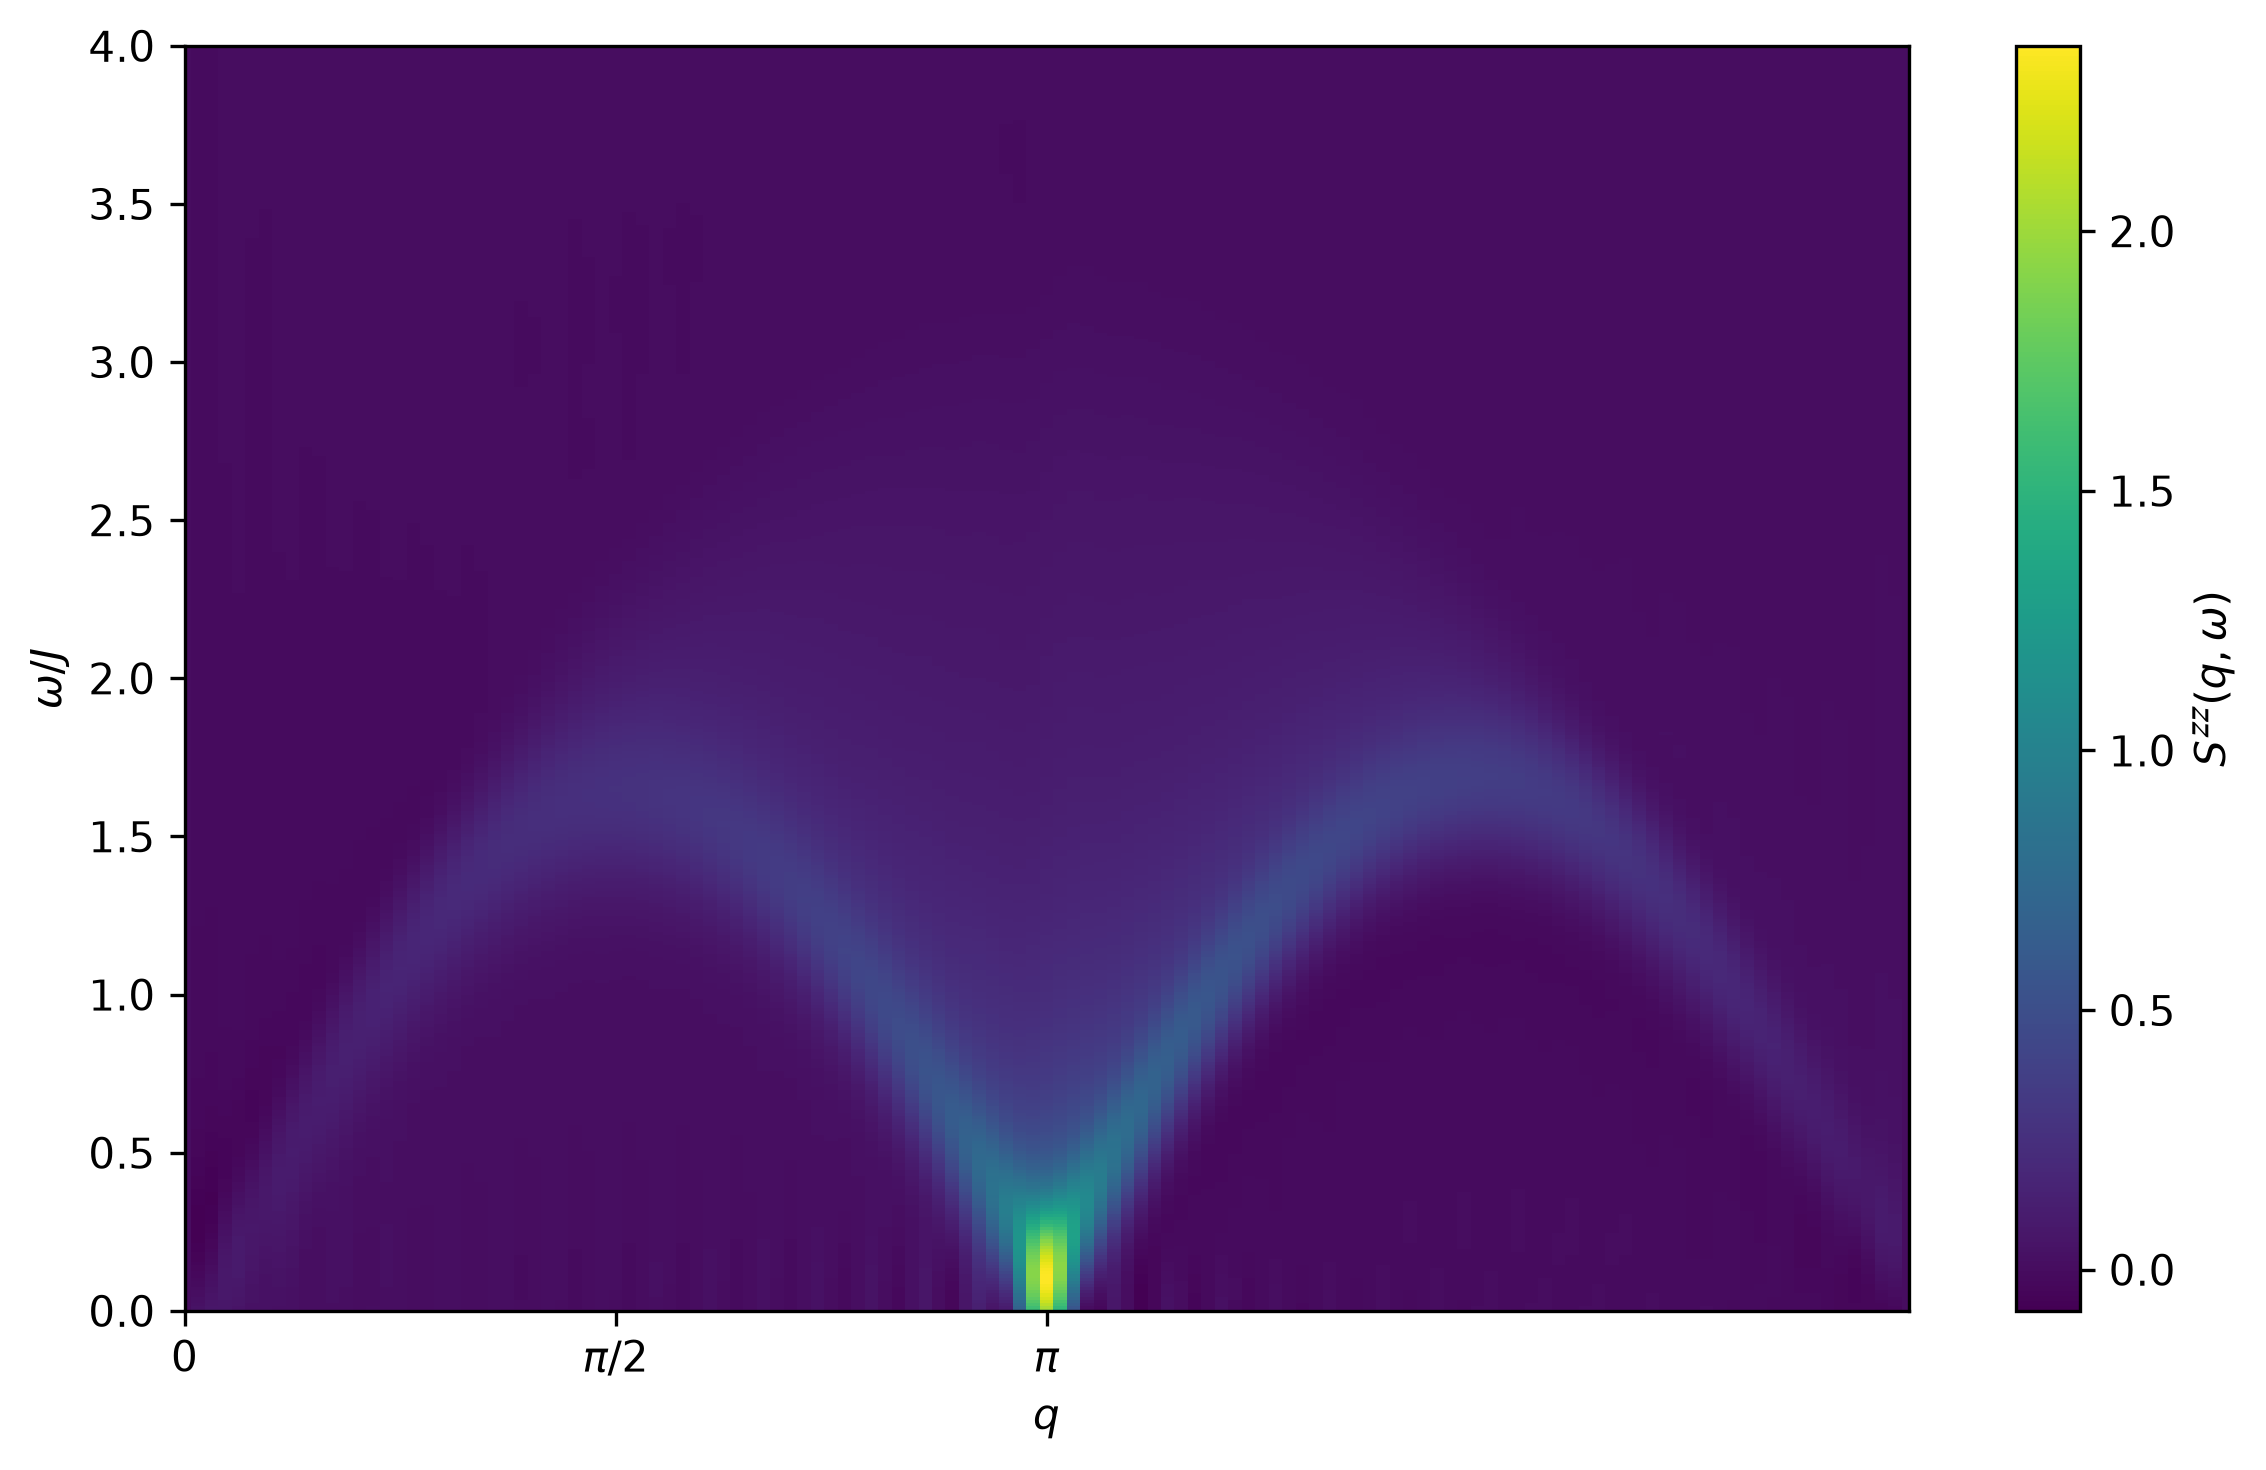
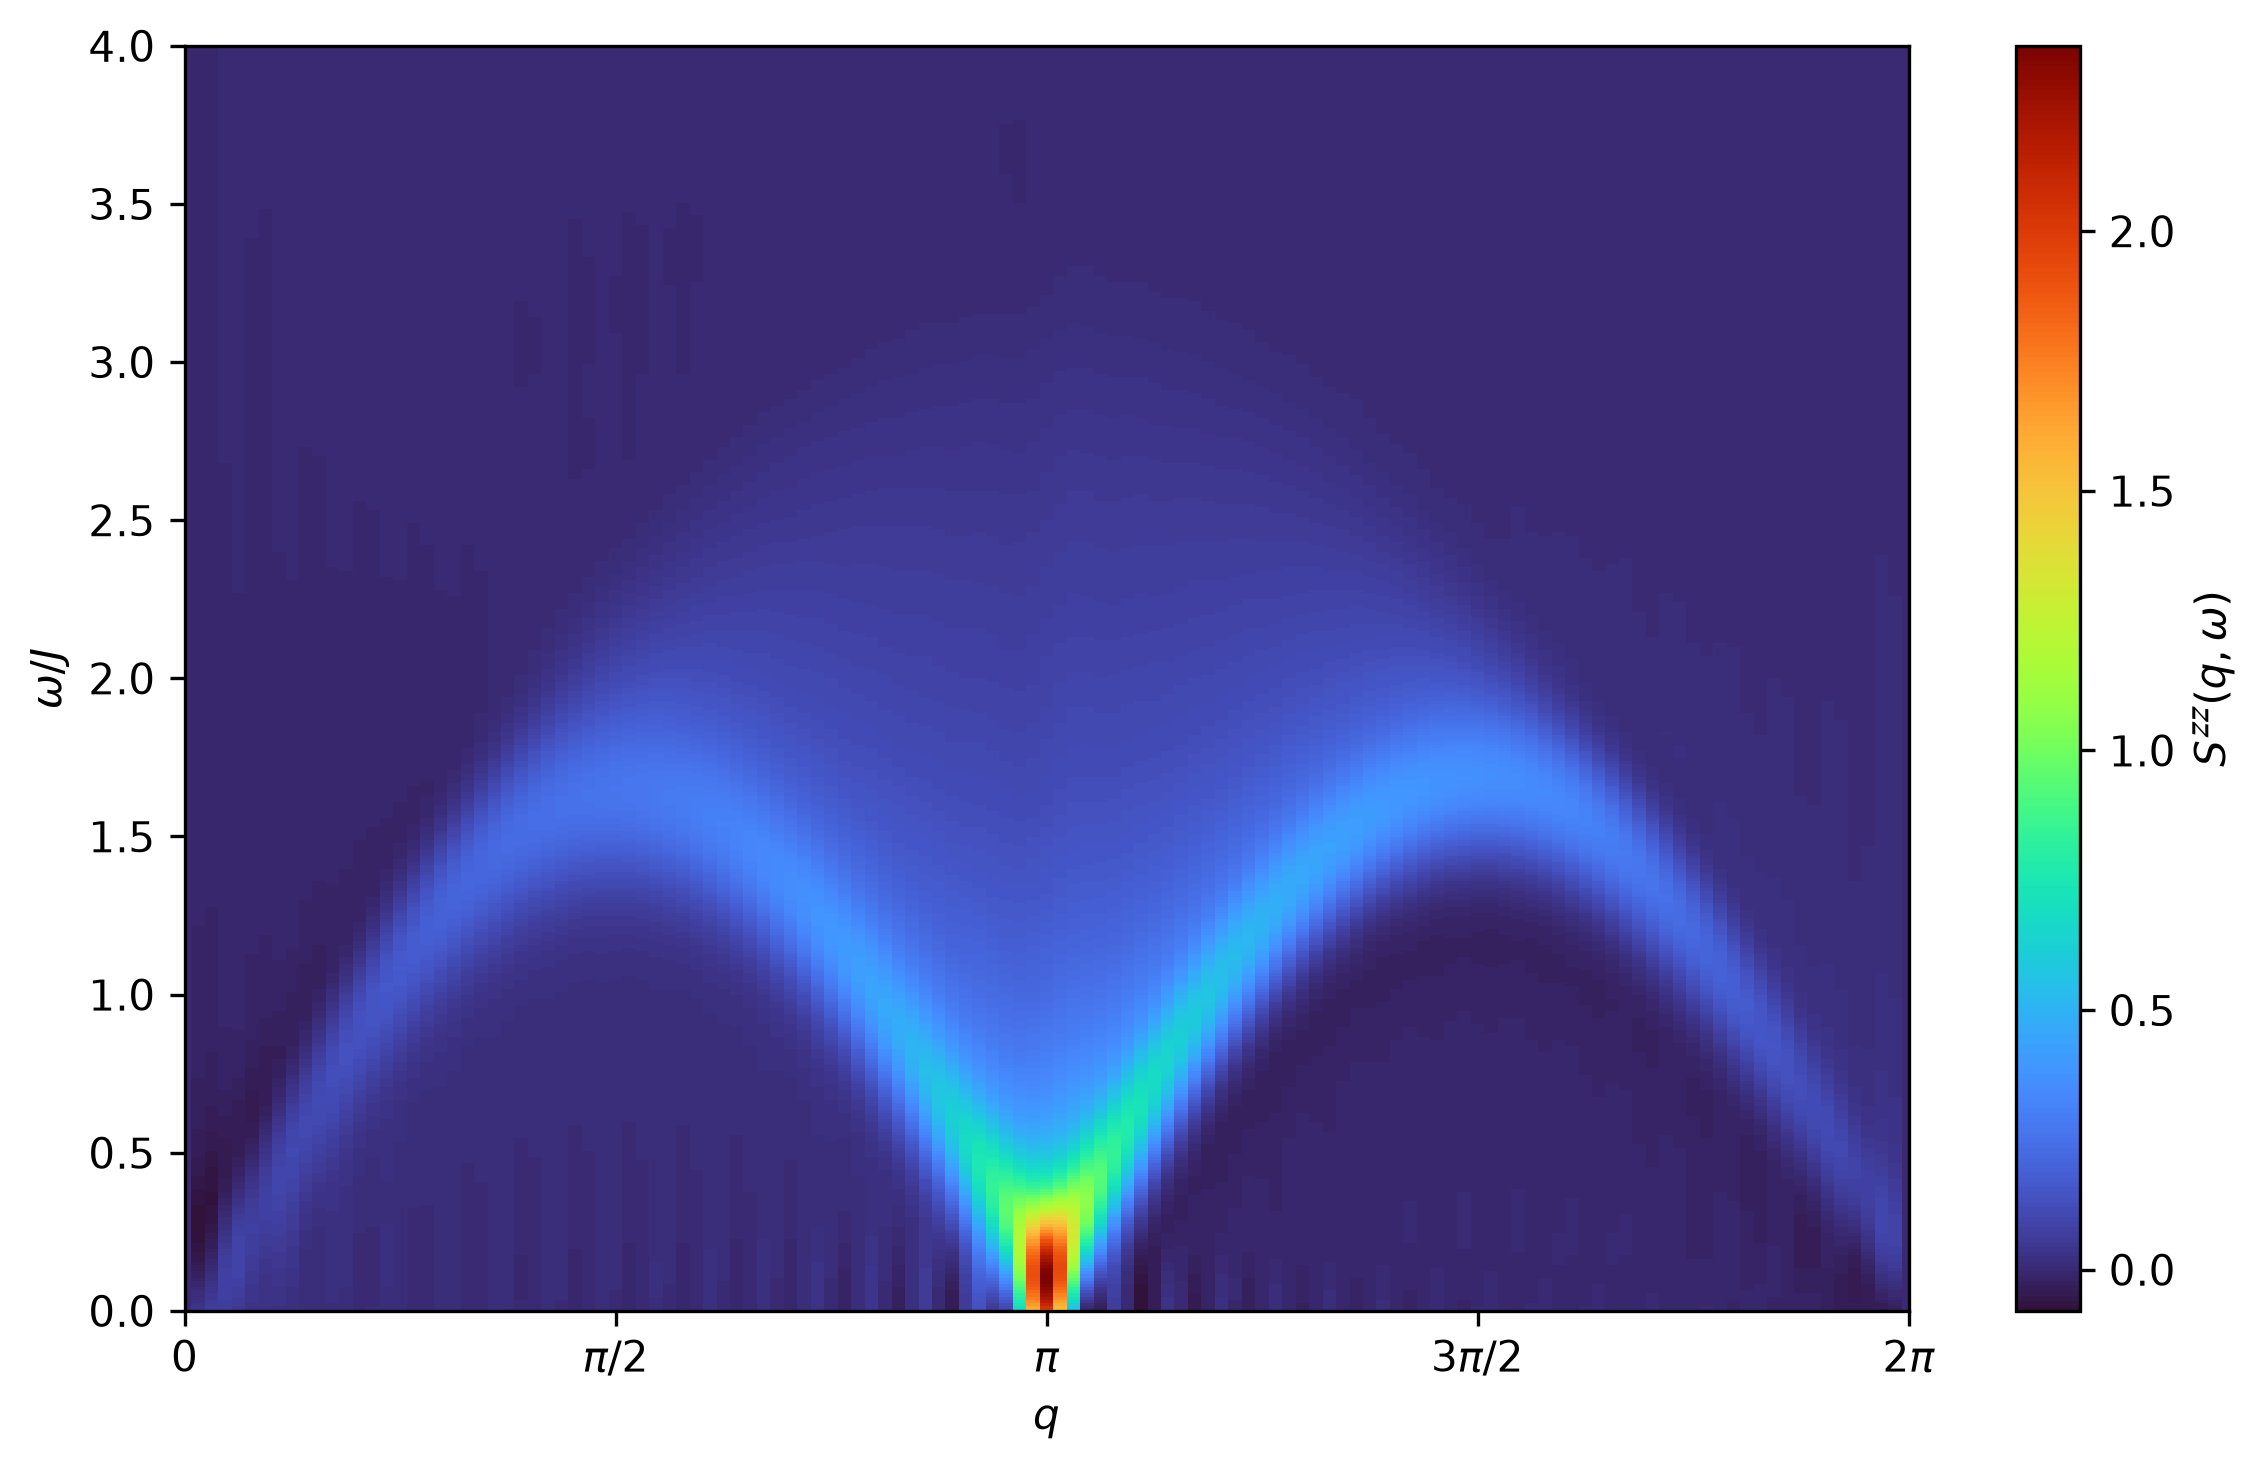
change colormap

diff --git a/sqw_tebd.py b/sqw_tebd.py
@@ -39,39 +39,39 @@ t_max = 20
 dt = 0.05
 
 
-# 2サイトDMRG
-dmrg = qtn.DMRG2(H,bond_dims=[40, 60, 80, 100, 120],cutoffs=1e-10)  # DMRG計算を行うためのオブジェクト   # ボンド次元の上限を順番に変える。異なるボンド次元でエネルギーが変わらないかで収束を判定
-dmrg.solve(tol=1e-8,verbosity=1)    # tolは収束判定の許容誤差を指定
+# # 2サイトDMRG
+# dmrg = qtn.DMRG2(H,bond_dims=[40, 60, 80, 100, 120],cutoffs=1e-10)  # DMRG計算を行うためのオブジェクト   # ボンド次元の上限を順番に変える。異なるボンド次元でエネルギーが変わらないかで収束を判定
+# dmrg.solve(tol=1e-8,verbosity=1)    # tolは収束判定の許容誤差を指定
 
-# Ground state
-psi0 = dmrg.state
-E0 = dmrg.energy
-print("Ground-state energy =", E0)
-print("Energy per site      =", E0 / L)
+# # Ground state
+# psi0 = dmrg.state
+# E0 = dmrg.energy
+# print("Ground-state energy =", E0)
+# print("Energy per site      =", E0 / L)
 
 
-# TEBDでG(n,c,t)を求める     15ページ参照
-Sz = qu.spin_operator("z")
-psi_exc = psi0.copy()
-phi_0 = psi_exc.gate_(Sz, where=c, contract=True)       # |φ(0)⟩ = Sᶻc|ψ₀⟩
+# # TEBDでG(n,c,t)を求める     15ページ参照
+# Sz = qu.spin_operator("z")
+# psi_exc = psi0.copy()
+# phi_0 = psi_exc.gate_(Sz, where=c, contract=True)       # |φ(0)⟩ = Sᶻc|ψ₀⟩
 
-H_tebd = qtn.ham_1d_heis(L, j=J, cyclic=False)      # まずは1次元Heisenberg鎖のハミルトニアンを用意
-tebd = qtn.TEBD(phi_0, H_tebd, dt=dt, split_opts={"max_bond": 128, "cutoff": 1e-10}, progbar=True)   # phi0 や H_tebd などを保持し、TEBD計算を行うためのオブジェクト
-times = np.arange(0, t_max + dt, dt)                 # 等間隔の時刻の配列を生成
-states = tebd.at_times(times, order=2)               # 2次のSuzuki-Trotter分解を使って時間発展を近似
+# H_tebd = qtn.ham_1d_heis(L, j=J, cyclic=False)      # まずは1次元Heisenberg鎖のハミルトニアンを用意
+# tebd = qtn.TEBD(phi_0, H_tebd, dt=dt, split_opts={"max_bond": 128, "cutoff": 1e-10}, progbar=True)   # phi0 や H_tebd などを保持し、TEBD計算を行うためのオブジェクト
+# times = np.arange(0, t_max + dt, dt)                 # 等間隔の時刻の配列を生成
+# states = tebd.at_times(times, order=2)               # 2次のSuzuki-Trotter分解を使って時間発展を近似
 
-# 時間ごとにG(n,t)を計算　ただし中心はc = L / 2
-G = np.zeros((L, len(times)), dtype=complex)
-for it in range(len(times)):
-    t = times[it]
-    phi_t = next(states)                                        # |φ(t)⟩ = U(t)|φ(0)⟩
-    for n in range(L):
-        phi_tmp = phi_t.copy()
-        phi_tmp.gate_(Sz, where=n)                              # Sᶻc|φ(t)⟩
-        G[n, it] = np.exp(1j * E0 * t) * (psi0.H @ phi_tmp)     # G(n,c,t) = e^iE0t <psi0| Sᶻc|φ(t)⟩
+# # 時間ごとにG(n,t)を計算　ただし中心はc = L / 2
+# G = np.zeros((L, len(times)), dtype=complex)
+# for it in range(len(times)):
+#     t = times[it]
+#     phi_t = next(states)                                        # |φ(t)⟩ = U(t)|φ(0)⟩
+#     for n in range(L):
+#         phi_tmp = phi_t.copy()
+#         phi_tmp.gate_(Sz, where=n)                              # Sᶻc|φ(t)⟩
+#         G[n, it] = np.exp(1j * E0 * t) * (psi0.H @ phi_tmp)     # G(n,c,t) = e^iE0t <psi0| Sᶻc|φ(t)⟩
 
-# DMRG・TEBDで計算した結果を保存
-np.savez("correlation.npz", G=G, times=times, E0=E0)
+# # DMRG・TEBDで計算した結果を保存
+# np.savez("correlation.npz", G=G, times=times, E0=E0)
 
 
 import matplotlib.pyplot as plt
@@ -143,12 +143,15 @@ plt.show()
 
 
 plt.figure(figsize=(8, 5))
-plt.pcolormesh(q_vals, omega_vals, Sqw.T, cmap="viridis", shading="auto")
+plt.pcolormesh(q_vals, omega_vals, Sqw.T, cmap="turbo", shading="auto")
 plt.xlabel(r"$q$")
 plt.ylabel(r"$\omega/J$")
 plt.colorbar(label=r"$S^{zz}(q,\omega)$")
 plt.xlim(0, 2*np.pi)
-plt.xticks([0, np.pi/2, np.pi], [r"$0$", r"${\pi}/{2}$", r"$\pi$"])
+plt.xticks(
+    [0, np.pi / 2, np.pi, 3 * np.pi / 2, 2 * np.pi],
+    [r"$0$", r"$\pi/2$", r"$\pi$", r"$3\pi/2$", r"$2\pi$"]
+)
 plt.ylim(0, 4)
 plt.tight_layout()
 plt.savefig("sqw_tebd_L64.png", dpi=300, bbox_inches="tight")

diff --git a/sqw_ed.py b/sqw_ed.py
@@ -48,7 +48,7 @@ print("Ground-state energy =", E0)
 
 # S_q^z, S(q)=S_q, S(q,w)=S_qwを作る 11ページ参考
 q_values = np.linspace(0, 2*np.pi, 101)
-omega = np.linspace(0, np.pi * J, 500)
+omega = np.linspace(0, 4 * J, 500)
 
 eta = 0.05
 
@@ -92,14 +92,15 @@ plt.savefig("sq_ed.png", dpi=300, bbox_inches="tight")
 plt.show()
 
 plt.figure(figsize=(7, 5))
-plt.pcolormesh(q_values, omega,S_qw.T, cmap="viridis",shading="auto")
+plt.pcolormesh(q_values, omega,S_qw.T, cmap="turbo",shading="auto")
 plt.xlabel(r"$q$")
-plt.ylabel(r"$\omega$")
+plt.ylabel(r"$\omega/J$")
 plt.colorbar(label=r"$S^{zz}(q,\omega)$")
-
 plt.xticks(
     [0, np.pi/2, np.pi, 3*np.pi/2, 2*np.pi],
     [r"$0$", r"$\pi/2$", r"$\pi$", r"$3\pi/2$", r"$2\pi$"]
 )
-plt.savefig("sqw_ed.png", dpi=300, bbox_inches="tight")
+plt.tight_layout()
+plt.ylim(0, 4)
+plt.savefig("sqw_ed_L8.png", dpi=300, bbox_inches="tight")
 plt.show()
